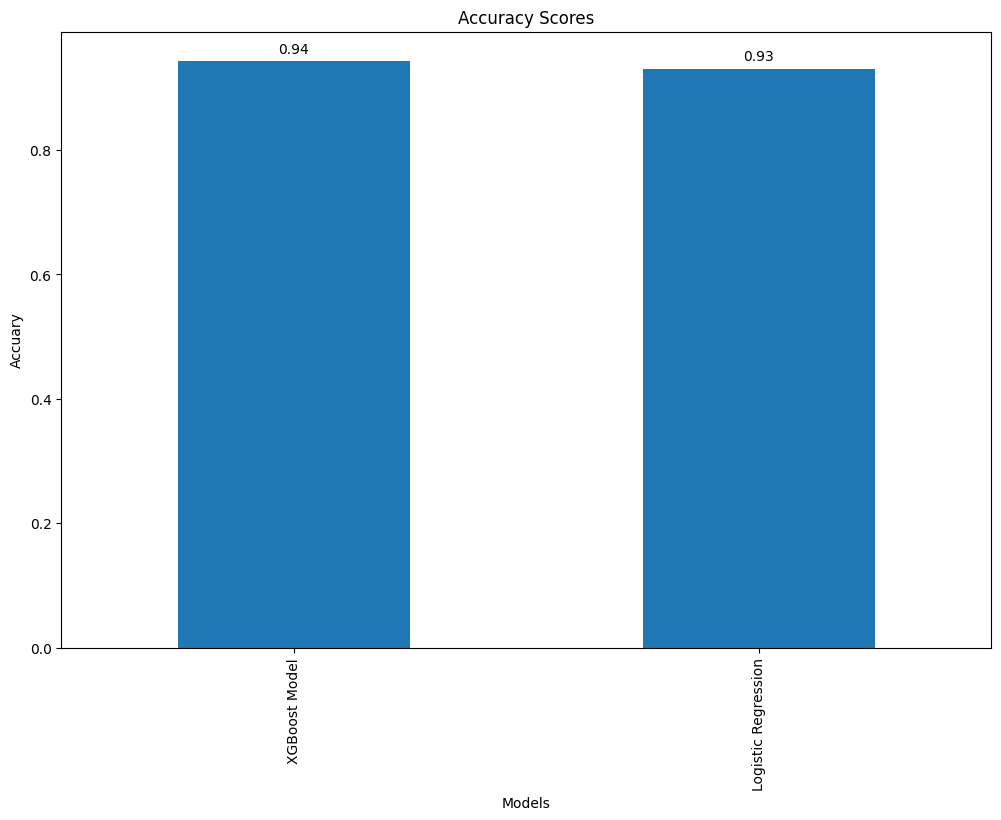
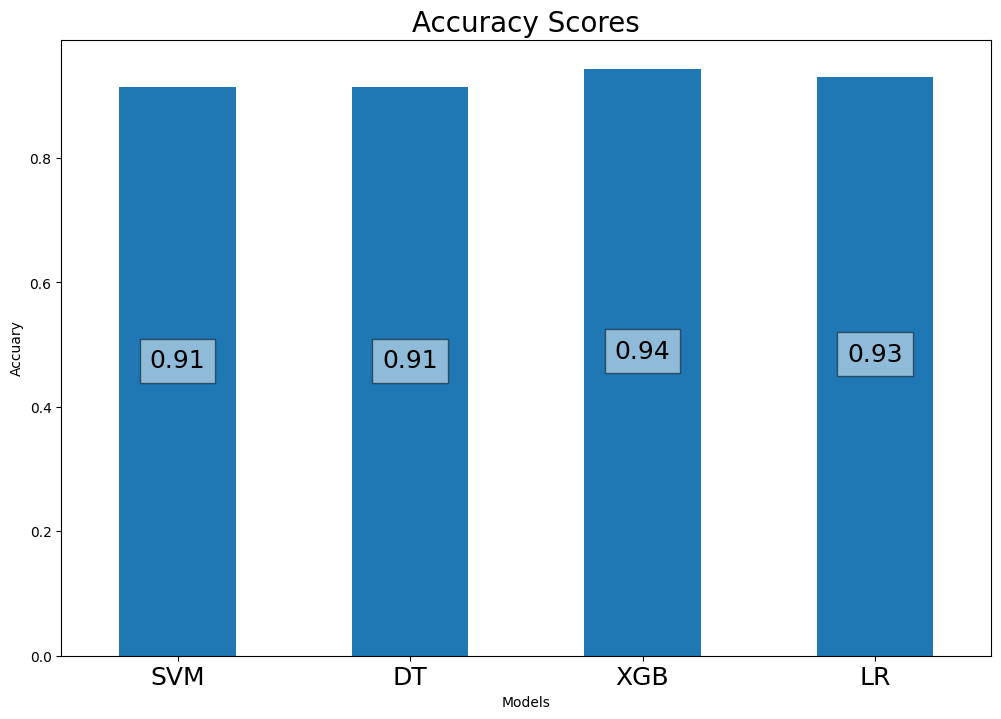
Added Dashboard

diff --git a/main.py b/main.py
@@ -2,7 +2,8 @@ from ui import Ui_StackedWidget
 from PyQt5 import QtCore, QtGui, QtWidgets
 from PyQt5.QtWidgets import QMainWindow,QMessageBox,QFileDialog,QStackedWidget
 from models import predict 
-from model_out_template import template,createGraph
+from model_out_template import template,createGraph,dashboard_template
+from PyQt5.QtGui import QPixmap
 
 pagesDict = {
         'Home': 0,
@@ -20,6 +21,10 @@ shortnames = {
             'XGBoost Model':'xgb',
             'Decision Tree Model':'dt'
         }
+
+# Fraud Transaction Intersection of all Models
+results_intersection = []
+
 
 class MainWindow(QStackedWidget):
     def __init__(self,parent=None):
@@ -39,6 +44,7 @@ class MainWindow(QStackedWidget):
             'xgb' : 'XGBoost Model',
             'dt':'Decision Tree Model'
         }
+
 
 
     def startUIWindow(self):
@@ -72,6 +78,7 @@ class MainWindow(QStackedWidget):
         self.uiWindow.btn4_out.clicked.connect(lambda: self.model_clicked(self.uiWindow.btn4_out))
         self.uiWindow.btn5_out.clicked.connect(lambda: self.model_clicked(self.uiWindow.btn5_out))
         self.uiWindow.btn6_out.clicked.connect(lambda: self.model_clicked(self.uiWindow.btn6_out))
+        self.uiWindow.dashboard_out.clicked.connect(lambda : self.dashboard_clicked(self.uiWindow.dashboard_out))
         header = self.uiWindow.results_table.horizontalHeader()
         header.setSectionResizeMode(0, QtWidgets.QHeaderView.Stretch)
         header.setSectionResizeMode(1, QtWidgets.QHeaderView.Stretch)
@@ -108,15 +115,21 @@ class MainWindow(QStackedWidget):
         common_fraud_cases = []
         if len(algos_selected) > 0 and filename != "":
             createGraph(algos_selected)
+            pixmap_f1 = QPixmap("./images/f1_graph.png")
+            pixmap_acc = QPixmap('./images/acc_graph.png')
+            self.uiWindow.acc_bar_plot.setPixmap(pixmap_f1)
+            self.uiWindow.confusion_image.setPixmap(pixmap_acc)
             output = predict(filename,algos_selected)
             output_res = [i['output'] for i in output]
-            result = set(output_res[0]).intersection(*output_res[1:])
-            print(len(result),result)
+            global results_intersection
+            results_intersection = set(output_res[0]).intersection(*output_res[1:])
+            print(len(results_intersection),results_intersection)
             self.setCurrentIndex(pagesDict['Output'])
             for index,i in enumerate(algos_selected):
                 self.btns[index].setText(self.modelnames[i])
             for i in range(len(algos_selected),6):
                 self.btns[i].hide()
+            self.dashboard_clicked(self.uiWindow.dashboard_out)
             algos_selected = []
         else:
             self.show_warning_info("No file or model selected")
@@ -129,6 +142,16 @@ class MainWindow(QStackedWidget):
         self.setCurrentIndex(pagesDict['Home'])
         for i in self.btns:
             i.show()
+
+    def dashboard_clicked(self,i):
+        self.uiWindow.acc_bar_plot.show()
+        self.uiWindow.modelname.setText('Dashboard')
+        pixmap = QPixmap("./images/acc_graph.png")
+        self.uiWindow.confusion_image.setPixmap(pixmap)
+        global results_intersection,filename
+        self.uiWindow.cases_label.setText(f'{str(len(results_intersection))} fraud transactions found.')
+        dashboard_template(self.uiWindow,results_intersection,filename)
+
 
     def model_clicked(self, i):
         # print("model_clicked")

diff --git a/model_out_template.py b/model_out_template.py
@@ -31,6 +31,7 @@ modelfullnames = {
 
 def template(uiWindow, model_name, fraud_cases,filename):
     global modelfullnames, model_data
+    uiWindow.acc_bar_plot.hide()
     uiWindow.modelname.setText(modelfullnames[model_name])
     uiWindow.acc_field.setText(str(model_data[model_name + "_accuracy"]))
     uiWindow.f1_field.setText(str(model_data[model_name + "_score"]))
@@ -47,6 +48,24 @@ def template(uiWindow, model_name, fraud_cases,filename):
     x.reset_index(inplace=True)
     # print(x.head())
     x = np.array(x)
+    uiWindow.results_table.setRowCount(0)
+    for row in range(0,len(x)):
+        uiWindow.results_table.insertRow(row)
+        for column in range(0,3):
+            uiWindow.results_table.setItem(row, column,
+                                           QtWidgets.QTableWidgetItem(
+                                               str(x[row,column])))
+
+def dashboard_template(uiWindow,fraud_cases,filename):
+
+    transactions = pd.read_csv(filename, index_col=None)
+    subset = transactions[["Time","Amount"]]
+    x = subset.loc[fraud_cases,:]
+    # x['Index'] = fraud_cases
+    x.reset_index(inplace=True)
+    # print(x.head())
+    x = np.array(x)
+    uiWindow.results_table.setRowCount(0)
     for row in range(0,len(x)):
         uiWindow.results_table.insertRow(row)
         for column in range(0,3):
@@ -64,17 +83,17 @@ def createGraph(models):
     freq_series_acc = pd.Series(frequencies_acc)
     freq_series_f1 = pd.Series(frequencies_f1) 
 
-    x_labels = [modelfullnames[i] for i in models]
+    x_labels = [i.upper() for i in models]
 
 
 
     # Plot the figure.
     plt.figure(figsize=(12, 8))
     ax = freq_series_acc.plot(kind='bar')
-    ax.set_title('Accuracy Scores')
+    ax.set_title('Accuracy Scores',fontsize=20)
     ax.set_xlabel('Models')
     ax.set_ylabel('Accuary')
-    ax.set_xticklabels(x_labels)
+    ax.set_xticklabels(x_labels,rotation=0,fontsize=18)
 
     rects = ax.patches
 
@@ -83,17 +102,17 @@ def createGraph(models):
 
     for index,data in enumerate(labels_acc):
         # height = rect.get_height()
-        ax.text(index,data+0.01,data,
-                ha='center', va='bottom')
+        ax.text(index,data/2,data,
+                ha='center', va='bottom',Bbox = dict(facecolor = 'white', alpha = .5),fontsize=18)
 
     plt.savefig('images/acc_graph.png',bbox_inches='tight') 
     # F1 Score
     plt.figure(figsize=(12, 8))
     ax = freq_series_f1.plot(kind='bar')
-    ax.set_title('F1 Scores')
+    ax.set_title('F1 Scores',fontsize=18)
     ax.set_xlabel('Models')
     ax.set_ylabel('F1 Scores')
-    ax.set_xticklabels(x_labels)
+    ax.set_xticklabels(x_labels,rotation=0,fontsize=18)
 
     rects = ax.patches
 
@@ -102,7 +121,7 @@ def createGraph(models):
 
     for index,data in enumerate(labels_f1):
         # height = rect.get_height()
-        ax.text(index,data+0.01,data,
-                ha='center', va='bottom')
+        ax.text(index,data/2,data,
+                ha='center', va='bottom',Bbox = dict(facecolor = 'white', alpha = .5),fontsize=18)
 
     plt.savefig('images/f1_graph.png',bbox_inches='tight') 

diff --git a/ui.py b/ui.py
@@ -162,16 +162,17 @@ class Ui_StackedWidget(object):
         self.f1_field.setGeometry(QtCore.QRect(250, 260, 91, 51))
         self.f1_field.setObjectName("f1_field")
         self.cases_label = QtWidgets.QLabel(self.display)
-        self.cases_label.setGeometry(QtCore.QRect(50, 380, 311, 61))
+        self.cases_label.setGeometry(QtCore.QRect(0, 430, 311, 61))
         font = QtGui.QFont()
         font.setPointSize(14)
         self.cases_label.setFont(font)
         self.cases_label.setAlignment(QtCore.Qt.AlignCenter)
         self.cases_label.setObjectName("cases_label")
         self.confusion_image = QtWidgets.QLabel(self.display)
-        self.confusion_image.setGeometry(QtCore.QRect(450, 50, 431, 431))
+        self.confusion_image.setGeometry(QtCore.QRect(500, 70, 381, 351))
         self.confusion_image.setText("")
-        self.confusion_image.setPixmap(QtGui.QPixmap("ui/../final_images/tree_cm_plot.png"))
+        self.confusion_image.setPixmap(QtGui.QPixmap("ui/../images/acc_graph.png"))
+        self.confusion_image.setScaledContents(True)
         self.confusion_image.setObjectName("confusion_image")
         self.results_table = QtWidgets.QTableWidget(self.display)
         self.results_table.setEnabled(True)
@@ -189,6 +190,12 @@ class Ui_StackedWidget(object):
         item = QtWidgets.QTableWidgetItem()
         item.setTextAlignment(QtCore.Qt.AlignCenter)
         self.results_table.setHorizontalHeaderItem(2, item)
+        self.acc_bar_plot = QtWidgets.QLabel(self.display)
+        self.acc_bar_plot.setGeometry(QtCore.QRect(30, 70, 381, 351))
+        self.acc_bar_plot.setText("")
+        self.acc_bar_plot.setPixmap(QtGui.QPixmap("ui/../images/f1_graph.png"))
+        self.acc_bar_plot.setScaledContents(True)
+        self.acc_bar_plot.setObjectName("acc_bar_plot")
         self.scrollArea.setWidget(self.display)
         self.btn3_out = QtWidgets.QPushButton(self.OutputPage)
         self.btn3_out.setGeometry(QtCore.QRect(60, 370, 221, 51))
@@ -217,7 +224,7 @@ class Ui_StackedWidget(object):
         StackedWidget.addWidget(self.OutputPage)
 
         self.retranslateUi(StackedWidget)
-        StackedWidget.setCurrentIndex(0)
+        StackedWidget.setCurrentIndex(1)
         QtCore.QMetaObject.connectSlotsByName(StackedWidget)
 
     def retranslateUi(self, StackedWidget):

diff --git a/models.py b/models.py
@@ -66,3 +66,5 @@ def predict(datasetFile,models_selected):
         })
     # print(knn_output[knn_output==1])
     return output_res
+
+
